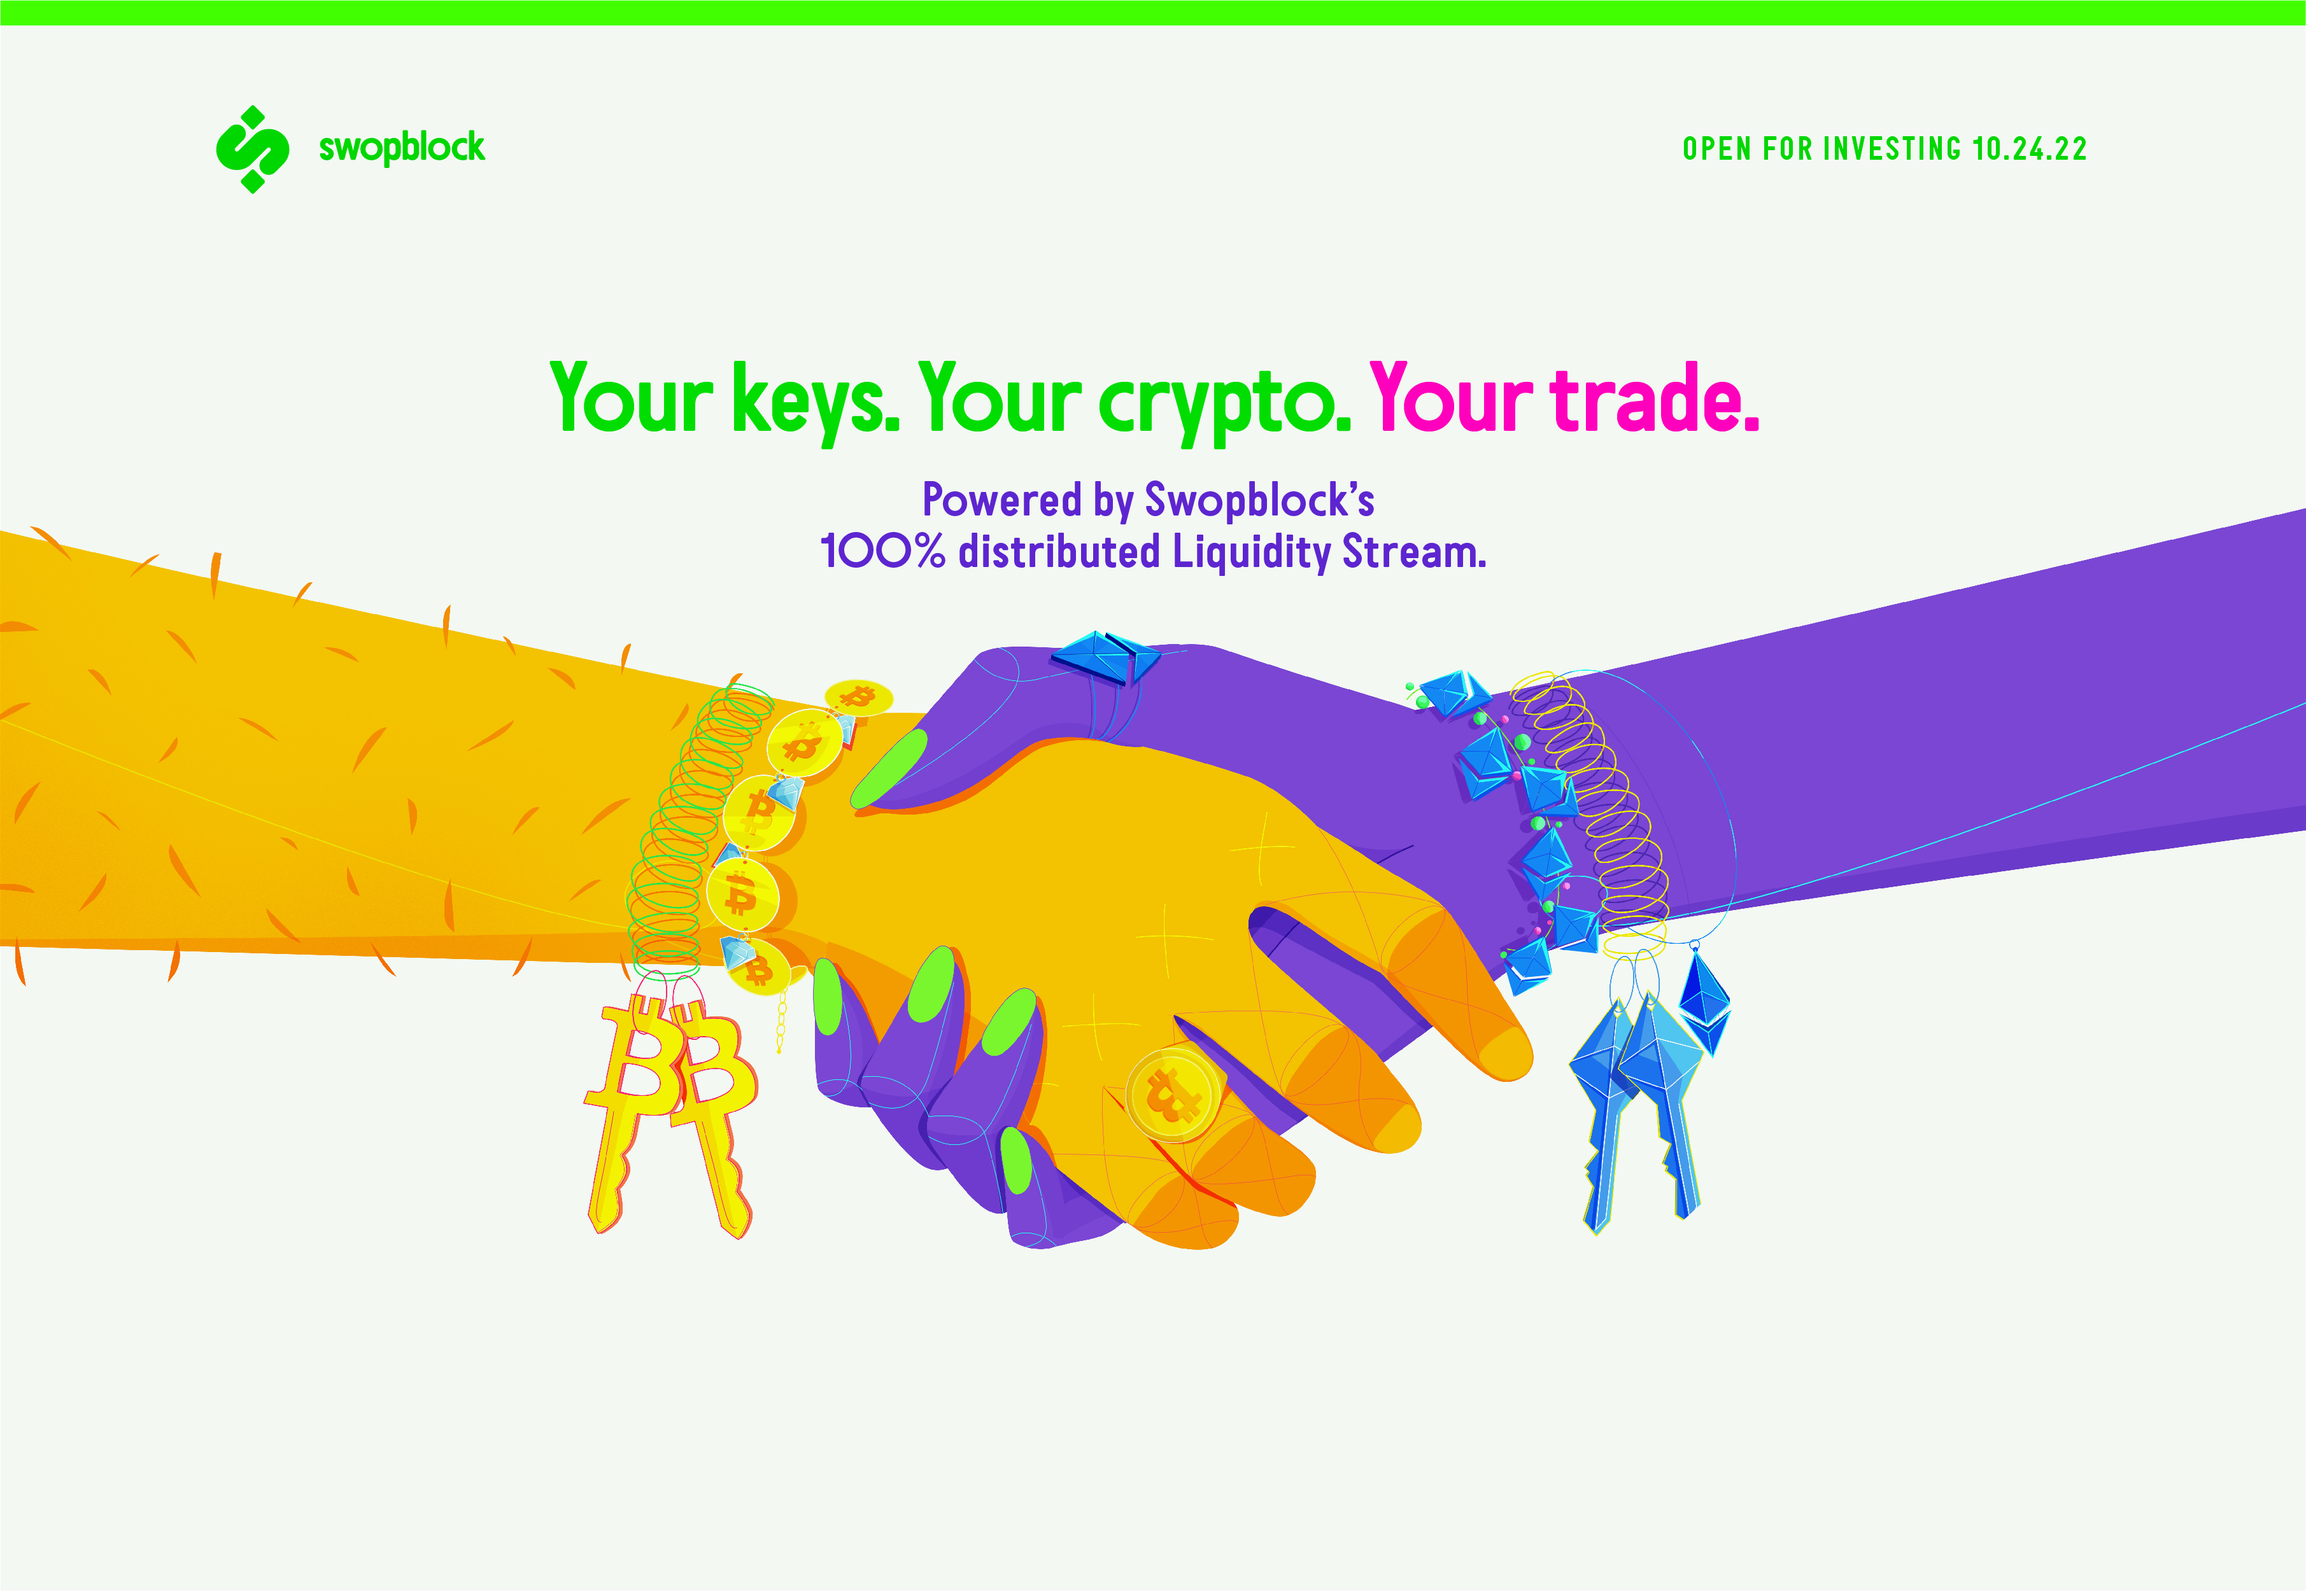
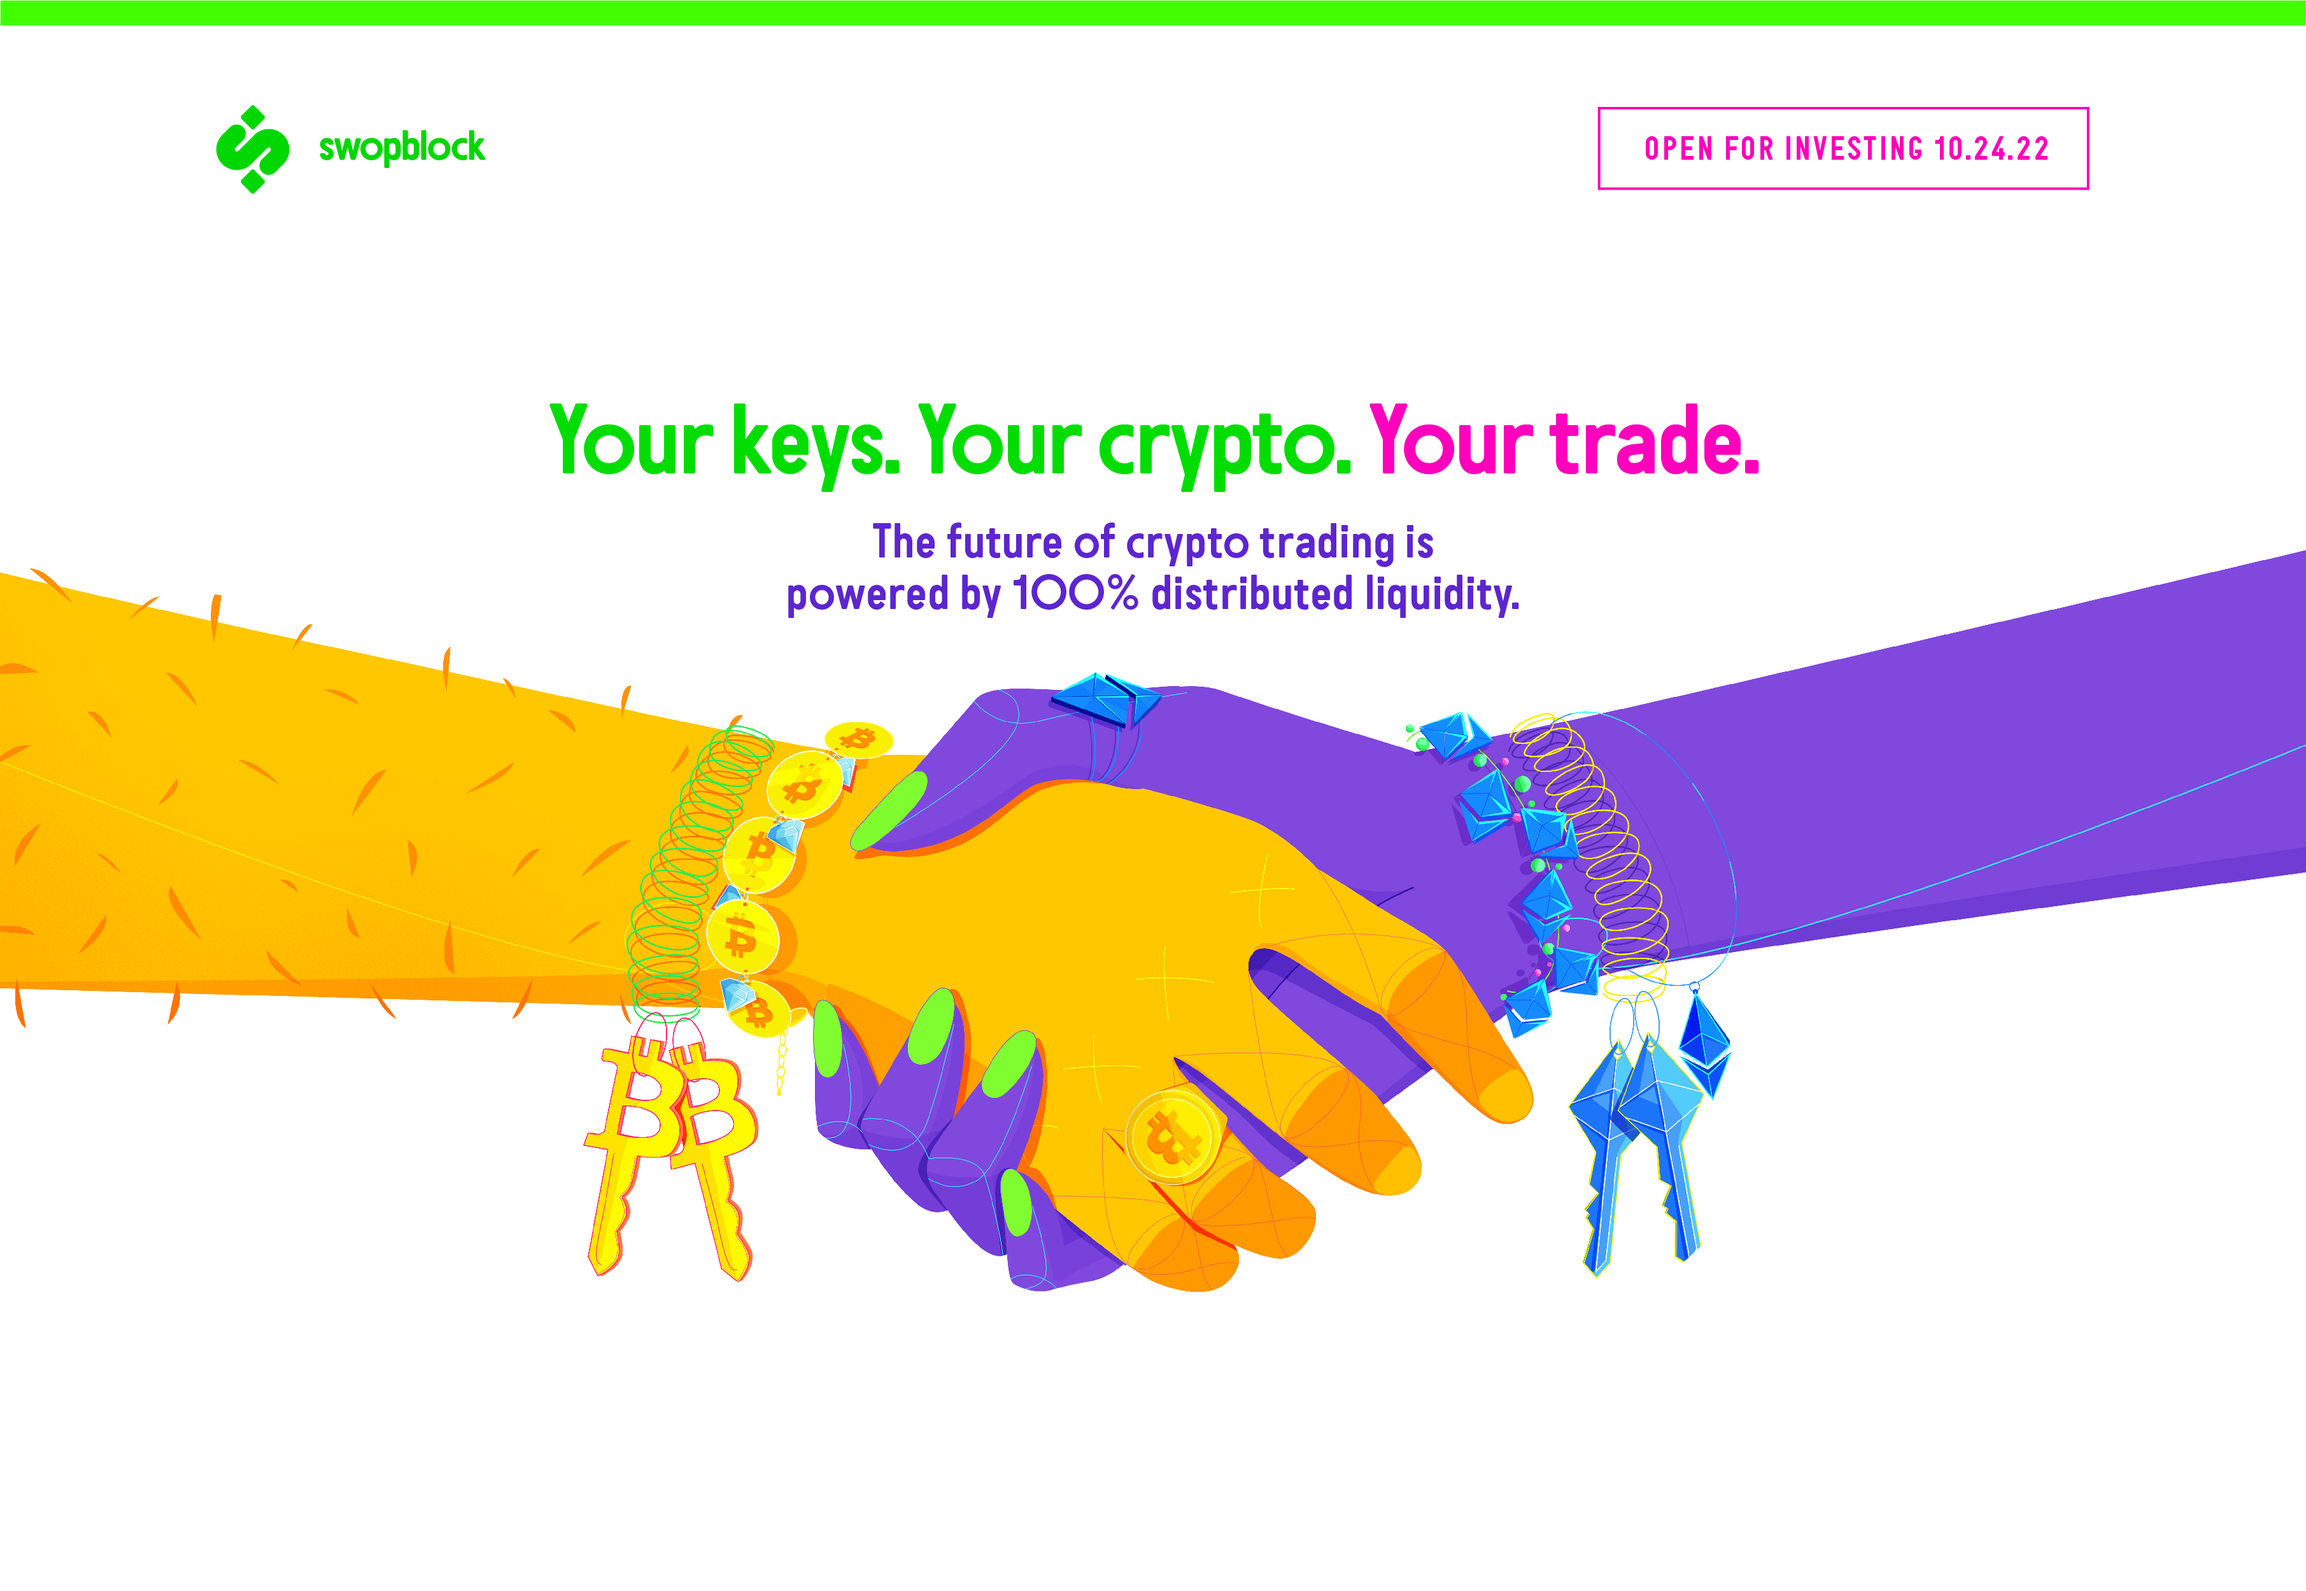
change images for site

Changed region(s): [[0.0, 0.2184, 1.0, 0.8112], [0.6864, 0.0624, 0.9047, 0.1248]]

diff --git a/index.html b/index.html
@@ -13,10 +13,12 @@
       <link rel="shortcut icon" href="img/favicon.ico">
       <title>Swopblock</title>
    </head>
-   <body style="background-color:#f2f8f1; /*#30323f;*/ background-image:url('img/TempSite.jpg');    background-size: cover;
+   <body style="background-color:#ffffff; /*#30323f;*/ background-image:url('img/TempSite.jpg');    background-size: cover;
     background-repeat: no-repeat; width:100%;">
 	
-	<img src="img/TempSite.jpg" />
+	<img class="mainBackground" src="img/TempSite.jpg" />
+	
+	<img class="mobileBackground" src="img/mobileTempSite.jpg" />
 
       <!-- /*
       Preloader

diff --git a/css/style.css b/css/style.css
@@ -137,7 +137,15 @@ img {
 /*
   CUSTOM PAGE CSS
 ======================================= */
+.mainBackground
+{
+	display:block;
+}
 
+.mobileBackground
+{
+	display:none;
+}
 
 /*
    NAVBAR CSS

diff --git a/css/responsive.css b/css/responsive.css
@@ -467,6 +467,17 @@
 }
 
 @media (max-width:767px) {
+	
+	.mainBackground
+{
+	display:none;
+}
+
+.mobileBackground
+{
+	display:block;
+}
+
 	.spaceThank{
 	width: 100%;
 }
